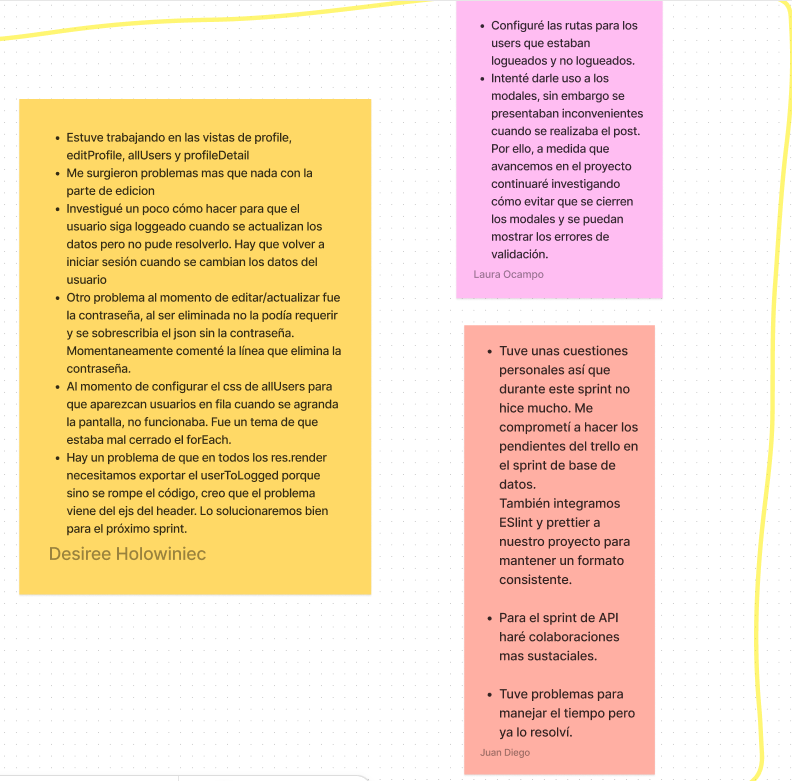
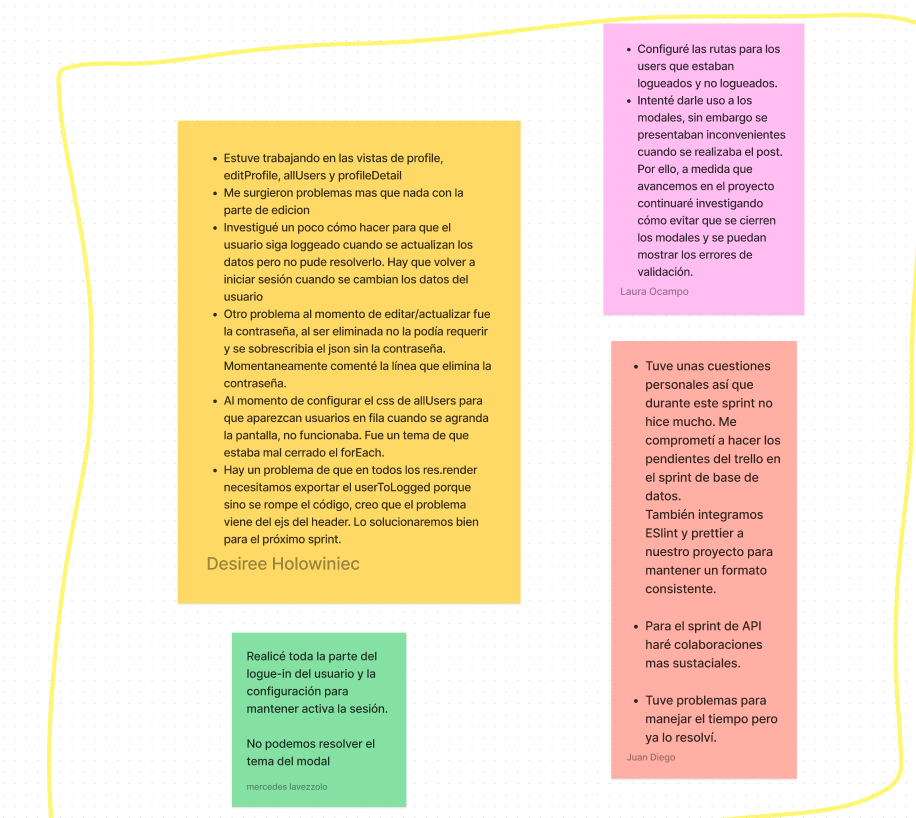
Scrum files updated. Code is unaltered.

diff --git a/docs/scrum/retrospective/retro.md b/docs/scrum/retrospective/retro.md
@@ -1,20 +1,32 @@
 # Resumenes de Scrum Retrospective
 
->SPRINT #4
+> SPRINT #5
 
-El equipo #6 se reunió el 16 de agosto para revisar sus avances en el sprint número cuatro. 
+El equipo #6 se encontró el quince de septiembre para revisar sus aciertos y errores en el quinto sprint.
 
-1. Buscamos hacer aportes adicionales a las consignas solicitadas por los profesores. Estamos anotándolas bajo tarjetas con el título "adicionales" en el trello. 
+1. Estamos intentando mantener el ritmo. Se han acumulado un par de tareas y no queremos quedarnos atrás.
+
+2. Resaltamos la actitud proactiva que los integrantes del equipo tienen al momento de trabajar en equipo.
+
+3. Seguiremos comentando el código para hacerlo más comprensible.
+
+4. Empezaremos a tener en cuenta que hay ciertas tareas que van en orden, con lo cual podremos coordinarnos mejor.
+
+> SPRINT #4
+
+El equipo #6 se reunió el 16 de agosto para revisar sus avances en el sprint número cuatro.
+
+1. Buscamos hacer aportes adicionales a las consignas solicitadas por los profesores. Estamos anotándolas bajo tarjetas con el título "adicionales" en el trello.
 
 2. Nos preocupa la fidelidad gráfica. A veces sentimos que hay impresiciones que se podrían pulir. De a poco las estamos identificando y resolviendo.
 
-3. Sabemos que el trabajo grupo es esencial. Llegamos a la conclusión de que es importante leer el código de mis compañeros para aprender de ellos. 
+3. Sabemos que el trabajo grupo es esencial. Llegamos a la conclusión de que es importante leer el código de mis compañeros para aprender de ellos.
 
-4. Terminamos este sprint más rápido de lo normal. Terminamos dos días antes. Esperamos seguir así de holgados. 
+4. Terminamos este sprint más rápido de lo normal. Terminamos dos días antes. Esperamos seguir así de holgados.
 
 5. Decidimos que hay que seguir checkeando nuestra web para atrapar cualquier bug que se pueda introducir mientras se codea.
 
->SPRINT #3
+> SPRINT #3
 
 El equipo #6 se reunió el cinco de agosto para revisar su desempeño en el sprint número tres. El siguiente reporte cristaliza las reflexiones de sus integrantes:
 
@@ -24,35 +36,35 @@ El equipo #6 se reunió el cinco de agosto para revisar su desempeño en el spri
 
 3. Queremos empezar a ser ordenados con nuestro proyecto. Trataremos de hacer la estructura del repositorio más organizada.
 
-4. A veces nos cuesta trabaja saber qué tareas van antes que otras. Si llegamos a tener el problema de nuevo, empezaremos a enumerar el orden de los tickets a realizar. 
+4. A veces nos cuesta trabaja saber qué tareas van antes que otras. Si llegamos a tener el problema de nuevo, empezaremos a enumerar el orden de los tickets a realizar.
 
 5. Decidimos usar inglés en todos los lugares posibles. Por eso nos comprometimos a dejar de mezclar este idioma con el español. Queremos mantener buenas convenciones para los nombres que usamos en nuestro código.
 
-6. Queremos probar si podemos colaborar en un mismo archivo a la vez, así aprendemos a integrarnos más con el código de nuestros compañeros. 
+6. Queremos probar si podemos colaborar en un mismo archivo a la vez, así aprendemos a integrarnos más con el código de nuestros compañeros.
 
 7. Seguiremos colaborando entre todos. Mantendremos las ceremonias scrum.
 
->SPRINT #2
+> SPRINT #2
 
 El equipo #6 se reunió el veinte de julio para ver qué aprendizajes se generaron en el último sprint. A continuación se exponen las concluciones:
 
-1. Llegamos a la conclusión que necesitamos mayor flexibilidad al momento de repartir las tareas. Nos hemos dado cuenta que hay historias d usuario en las que varias personas pueden trabajar a la vez.       
+1. Llegamos a la conclusión que necesitamos mayor flexibilidad al momento de repartir las tareas. Nos hemos dado cuenta que hay historias d usuario en las que varias personas pueden trabajar a la vez.
 
 2. A pesar que habíamos generado el tablero de trello, no realizamos seguimiento de manera juiciosa. Empezaremos a reportar nuestros avances consistentemente.
 
-3. Empezaremos a reportar las weekly scrum. Ya las hacíamos pero no teníamos un registro.  
+3. Empezaremos a reportar las weekly scrum. Ya las hacíamos pero no teníamos un registro.
 
-4. La colaboración es esencial para termianr este proyecto. Cuando un compañero ha tenido problemas, otros han apoyado. Es muy importante poder ayudar a las personas que tenemos alrededor. 
+4. La colaboración es esencial para termianr este proyecto. Cuando un compañero ha tenido problemas, otros han apoyado. Es muy importante poder ayudar a las personas que tenemos alrededor.
 
 Acá concluyen las experiencias del sprint.
 
->SPRINT #1
+> SPRINT #1
 
 El equipo #6 se reunió primero de julio para reunir experiencias con el objetivo de mejorar su eficiencia. Luego de un sesión de colaboración en el retrospective board, llegamos a las siguientes conclusiones:
 
 1. No usamos scrum para el primer sprint. Nos comprometimos a aplicar la metodología de ahora en adelante.
-2. Acordamos hacer una daily scrum semanal, de ahora en adelante llamada *weekly scrum*.
+2. Acordamos hacer una daily scrum semanal, de ahora en adelante llamada _weekly scrum_.
 3. Buscamos mejorar la colaboración del grupo, programando sesiones de pair programming cuando alguno de nuestros compañeros requiera consejo, o nuestros horarios se junten.
-4. Dejamos abierta la puerta para realizar más de una weekly scrum de ser necesario. Confiamos en nuestra capacidad de ser flexibles. 
+4. Dejamos abierta la puerta para realizar más de una weekly scrum de ser necesario. Confiamos en nuestra capacidad de ser flexibles.
 
 La anterior lista representa la experiencia acumulada por nuestro equipo en el último sprint.

diff --git a/docs/scrum/weekly/weekly.md b/docs/scrum/weekly/weekly.md
@@ -24,6 +24,10 @@
 
 3. Tuve problemas para manejar el tiempo pero ya lo resolví.
 
+- Mercedes Lavezzolo
+
+1. Realicé toda la parte del login del usuario, manteniendo activa la sesión. Todavía tenemos problemas con los modales.
+
 - Laura Ocampo
 
 1. Configuré las rutas para los users que estaban logueados y no logueados.
